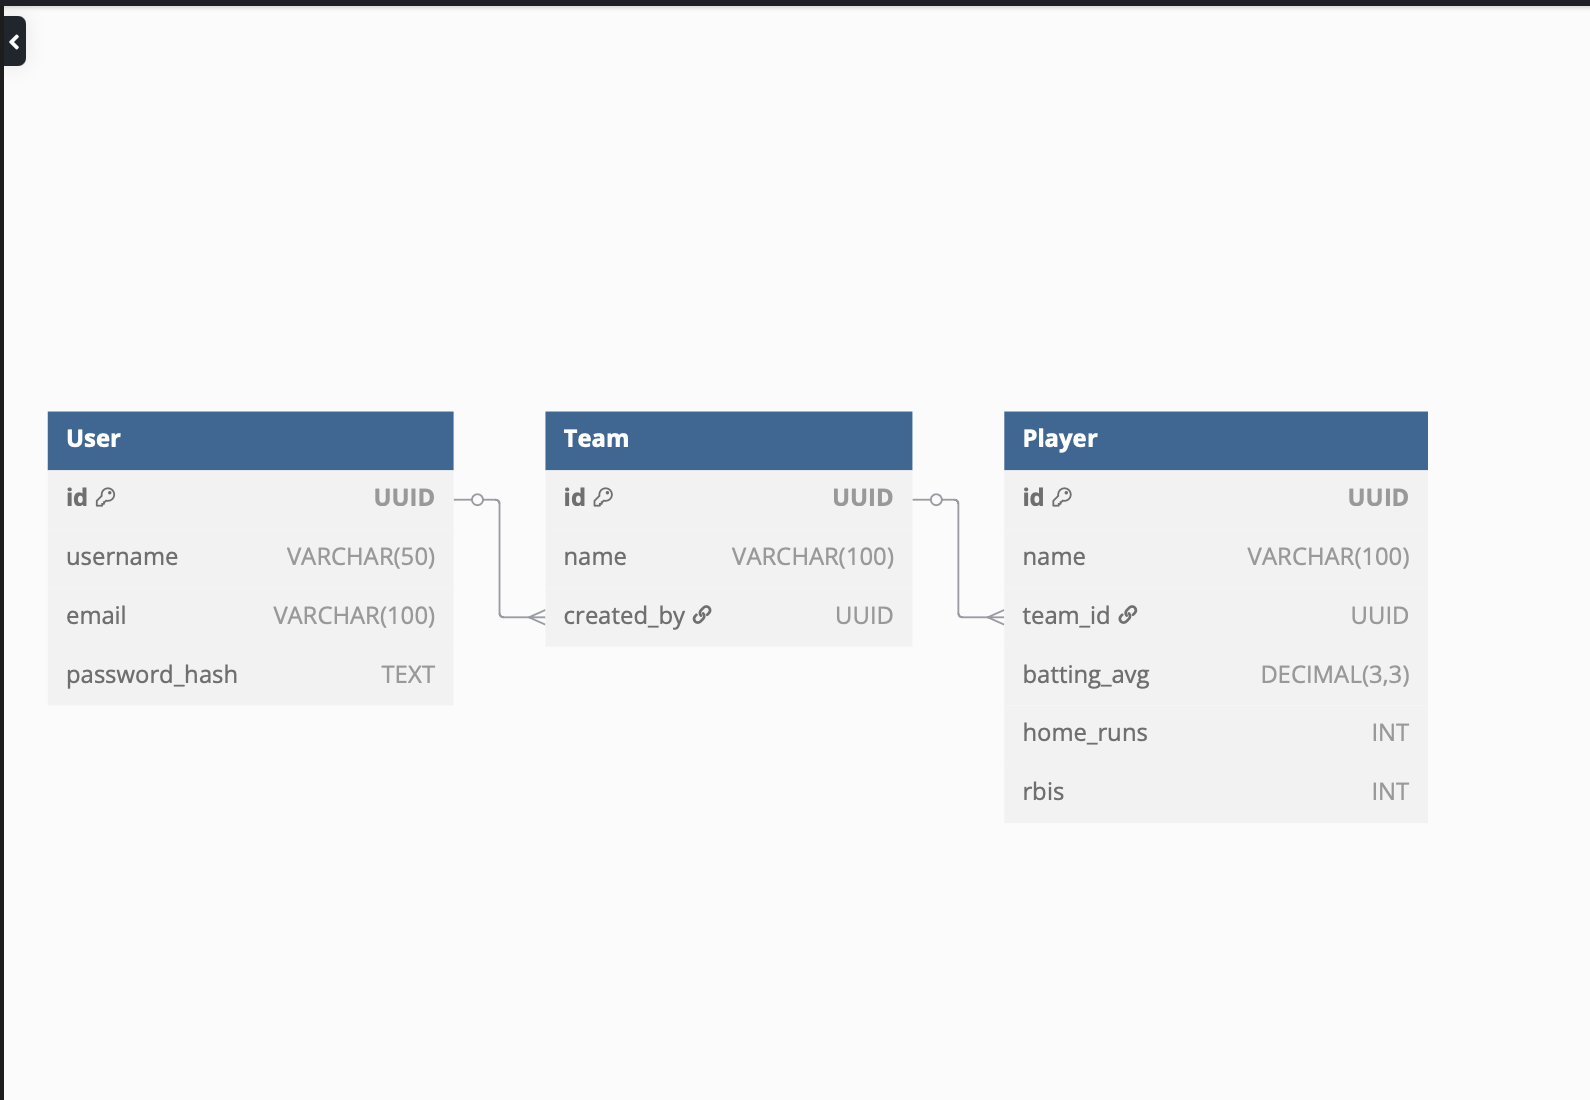
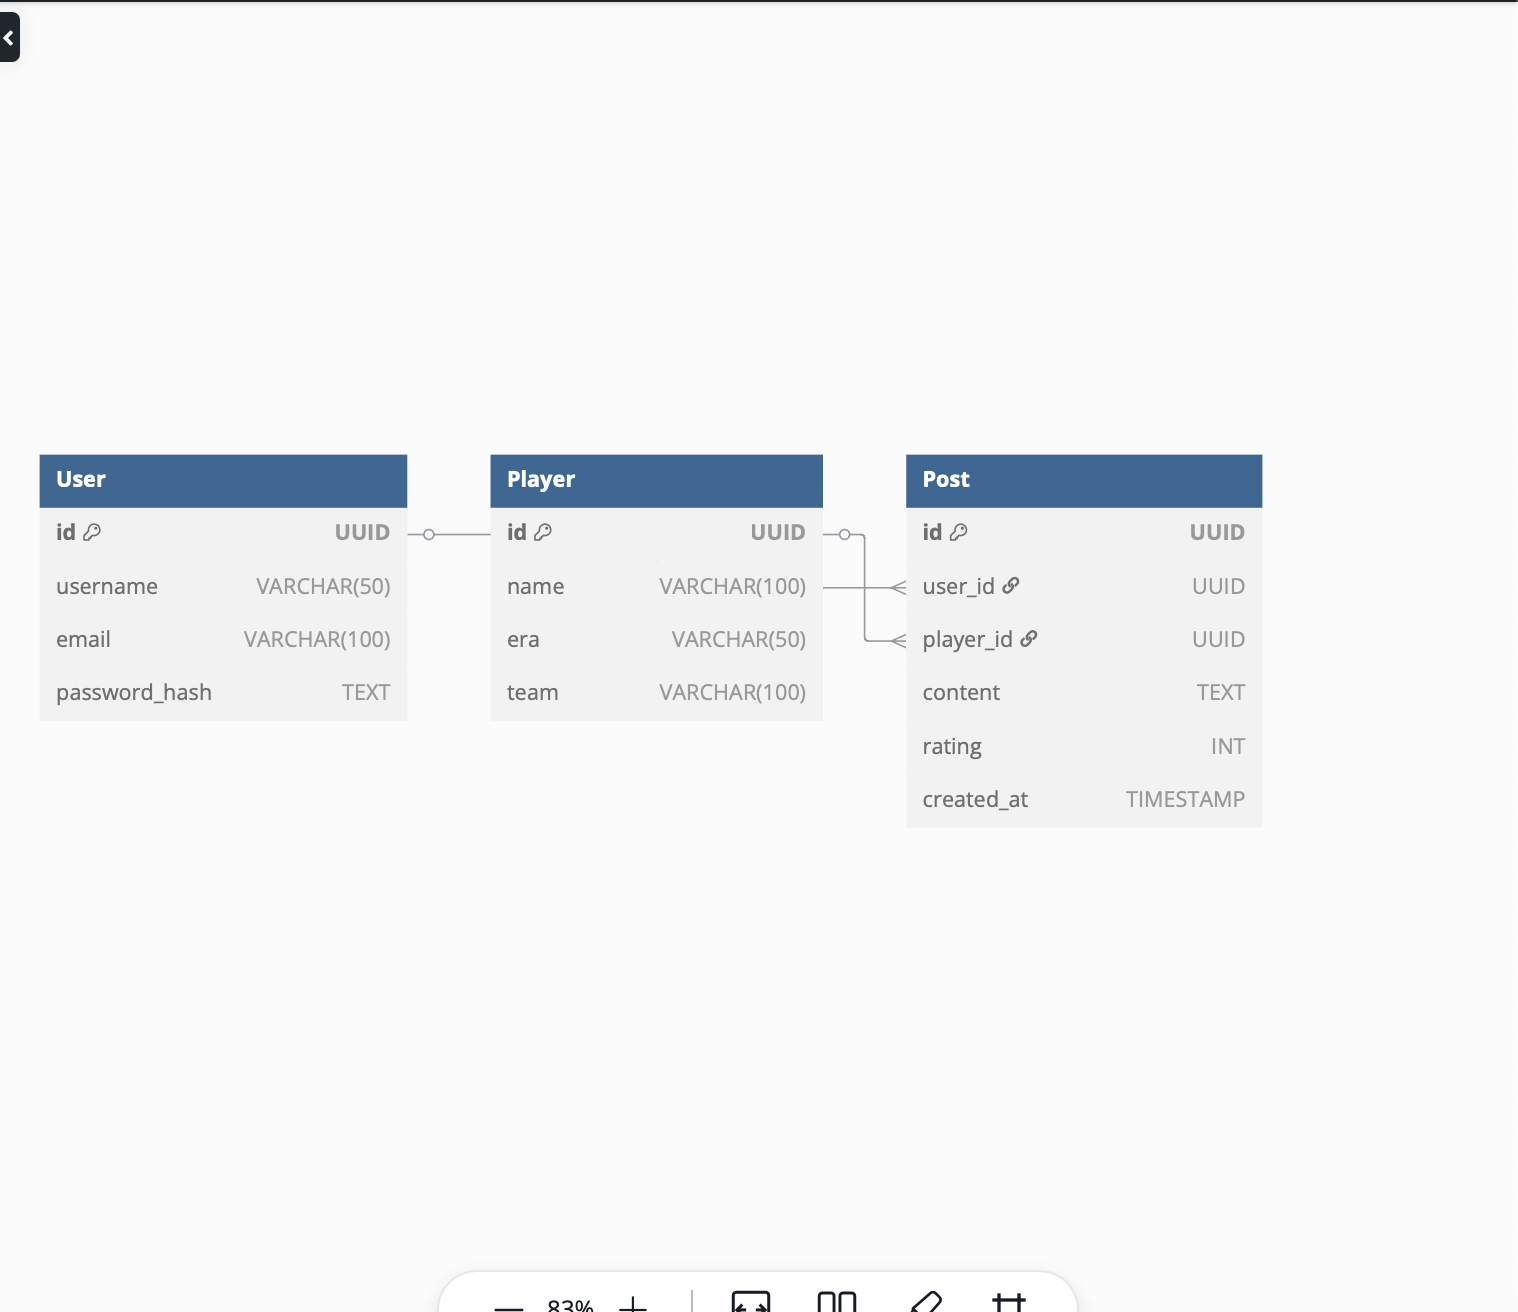
Final proposal is ready andy approved

diff --git a/proposal.md b/proposal.md
@@ -6,7 +6,7 @@ The purpose of the app is to allow users to review and critique current and ex M
 ### User Stories
 #### MVP Goals 
 * As an AAU I want to be able to sign-up, sign-in, and sign out.
-* As an AAU I want to be able to create a post about fromer and current players. 
+* As an AAU I want to be able to create a post about former and current players. 
 * As an AAU I want to be able to store and view my posts.
 * As an AAU I want to be able to delete posts.
 * As a Guest user I am only able to see a post but cannot create it
@@ -17,27 +17,78 @@ The purpose of the app is to allow users to review and critique current and ex M
 * As an AAU user I want to be able to comment on another user's post
 ### Wire Frame
 **Homepage**
-![MLB Stat-tracker](./Assets/Homepage.png)
+![dugout-talk](./Assets/Landing-page.png)
 
 **sign in page**
-![MLB Stat-tracker](./Assets/Sign-in.png)
-
-**MLb stat-tracker guest view**
-![MLB Stat-tracker](./Assets/Guestview.png)
+![dugout-talk](./Assets/Sign-in-page.png)
 
 **Registration**
-![MLB Stat-tracker ](./Assets/Registration.png) 
+![dugout-talk ](./Assets/Registration-page.png) 
+
+**guest view**
+![dugout-talk](./Assets/Guest-view.png)
 
 **AAU view**
-![MLB Stat-tracker ](./Assets/AAU%20view.png)
+![dugout-talk ](./Assets/AAU%20homepage.png)
 
-**My Players**
-![MLB Stat-tracker](./Assets/Myplayersview.png)
+**Players**
+![dugout-talk ](./Assets/player-list.png)
+
+**Create post**
+![dugout-talk ](./Assets/create-post.png)
+
+**Delete/edit**
+![Mdugout-talk](./Assets/AAU-post-creation.png)
 
 ### ERD
-![MLB stat-tracker](./Assets/ERD.png)
+![dugout-talk](./Assets/ERD.png)
 
 
-### Data set 
-- Chatgpt
 
+
+### Timeline-Daily accountability
+| Day       |   | Task                        | Blockers | Notes/Thoughts |
+|-----------|---|-----------------------------|----------|----------------|
+| Monday    |   | Create and present proposal |   Get project approved       |                |  
+| Tuesday   |   | Set up project, basic structure, and EJS template files and authentication   |   getting everything organized       |                |
+| Wedensday |   |  CRUD Operations, Models     |    getting everything organized    |                |
+| Thursday  |   |  Add Middleware, run app and check for defects. Implement auth            |      Debugging    |                |
+| Friday    |   | UI/UX                 |       Being creative and making the app look spectacular   |                |
+| Saturday  |   | Finalize MVP        |          |                |
+| Sunday    |   | work on stretch goals              |          |                |
+| Monday    |   | Present project                     |          |                |
+
+### RESTful Routes
+## **User Routes**
+| HTTP Verb | Route         | Description                      | Access Control |
+|-----------|--------------|----------------------------------|---------------|
+| GET       | /register    | Show user registration form     | Public       |
+| POST      | /register    | Create a new user               | Public       |
+| GET       | /login       | Show login form                 | Public       |
+| POST      | /login       | Authenticate user and start session | Public |
+| POST      | /logout      | Log out user                    | Authenticated Users |
+
+---
+
+## **Player Routes**
+| HTTP Verb | Route         | Description                      | Access Control |
+|-----------|--------------|----------------------------------|---------------|
+| GET       | /players      | Show list of all players        | Public       |
+| GET       | /players/:id  | Show details of a specific player | Public |
+| POST      | /players      | Add a new player to the database | Admin Only |
+| PUT       | /players/:id  | Edit player information         | Admin Only |
+| DELETE    | /players/:id  | Remove a player from the database | Admin Only |
+
+---
+
+## **Post Routes**
+| HTTP Verb | Route                | Description                      | Access Control |
+|-----------|-----------------------|----------------------------------|---------------|
+| GET       | /players/:id/posts  | Show all Posts for a player  | Public       |
+| POST      | /players/:id/posts  | Add a new post for a player  | Authenticated Users |
+| GET       | /posts/:posts_id/edit | Show form to edit a post | Post Owner |
+| PUT       | /posts/:post_id   | Update a specific post       | Post Owner |
+| DELETE    | /post/:post_id   | Delete a specific post       | Post Owner |
+
+### **Data set**
+* chat-gpt
